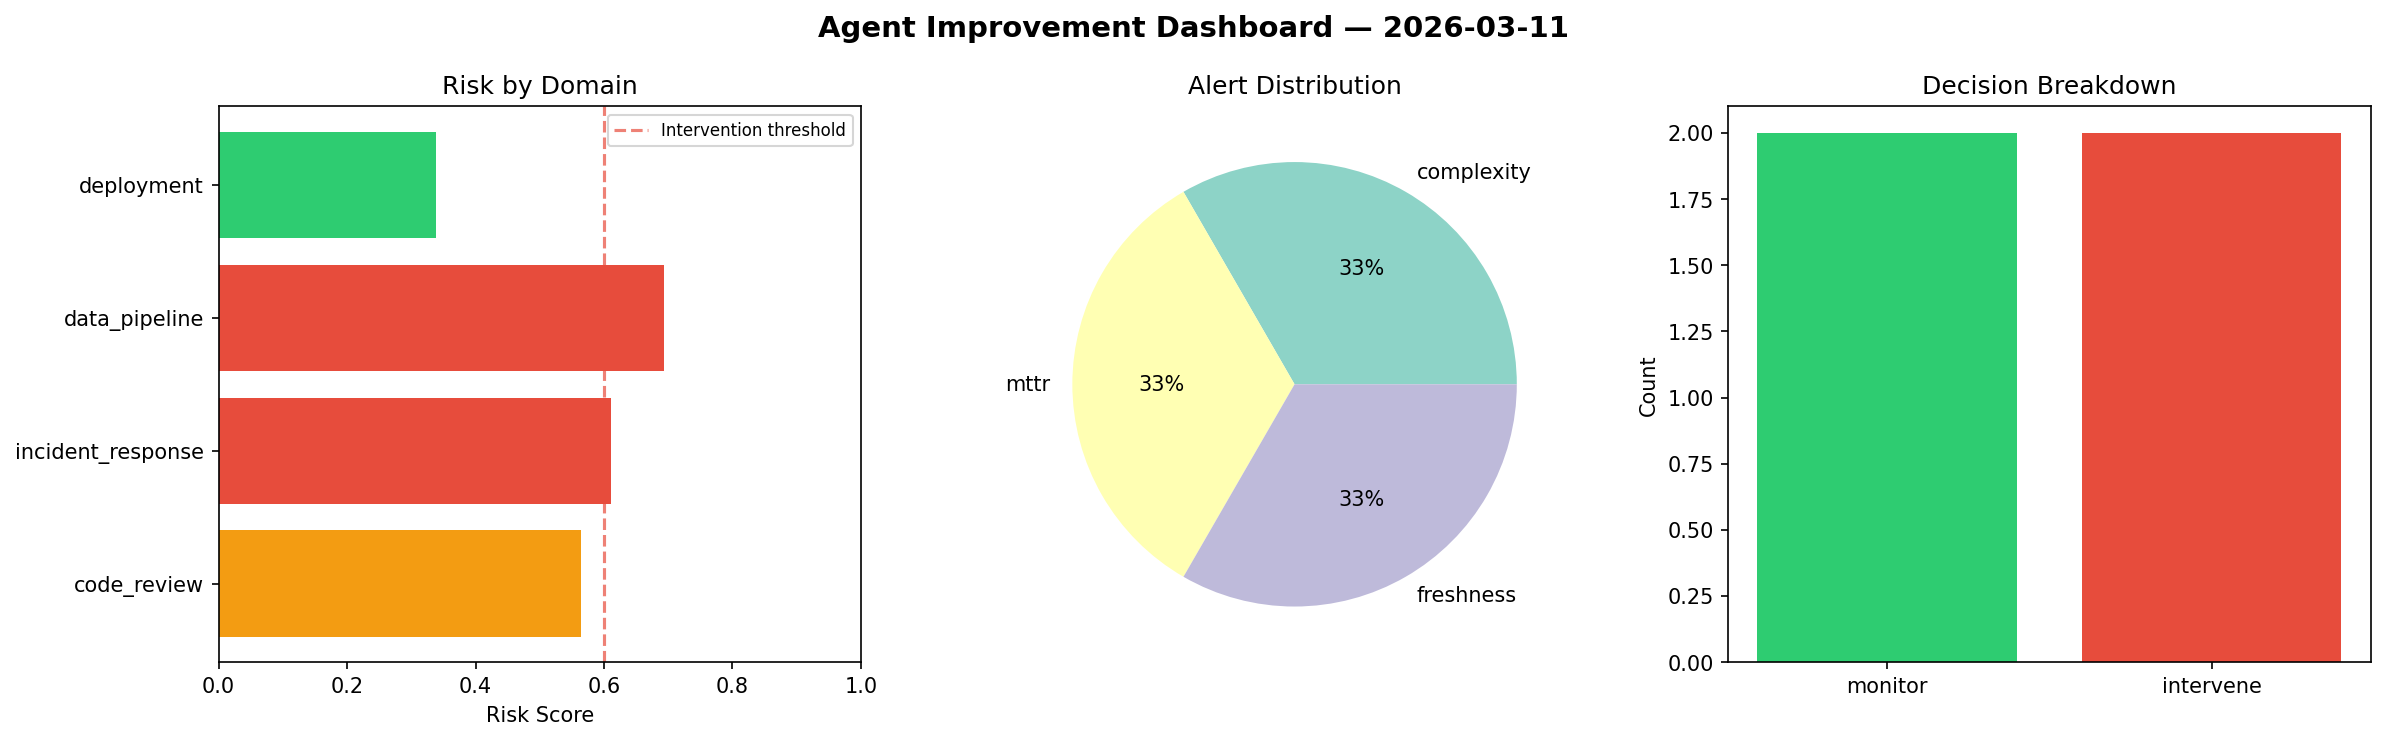
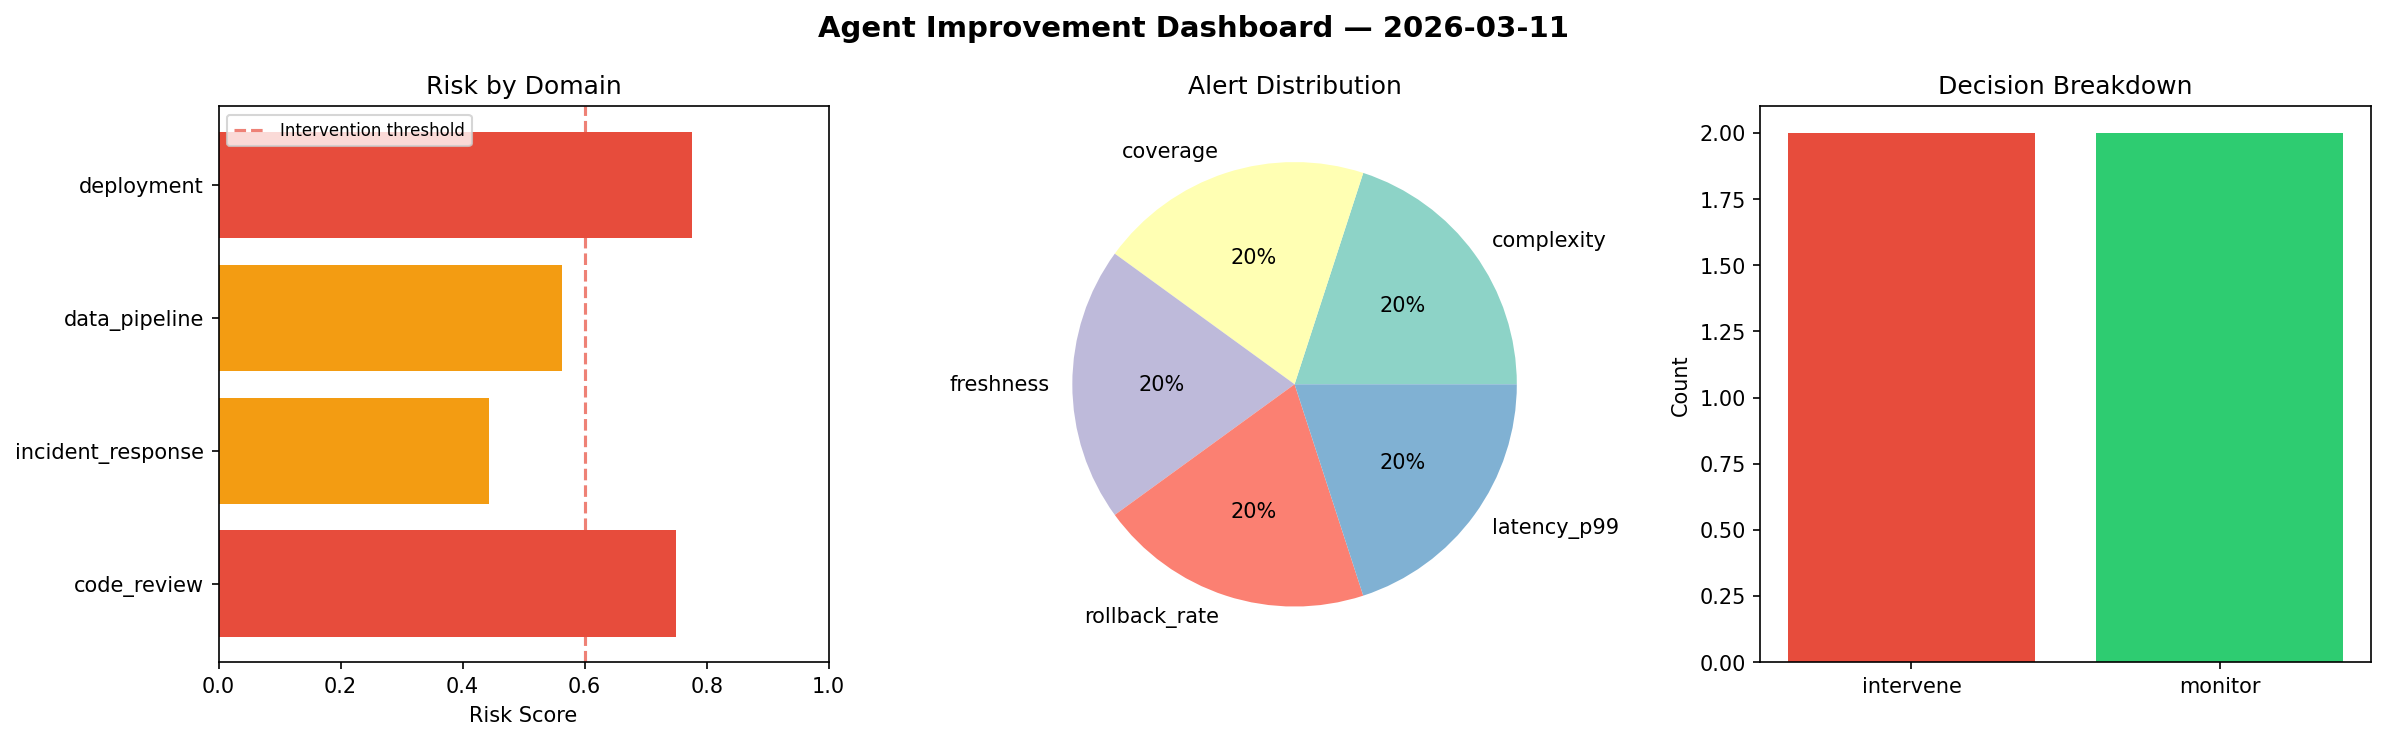
agent-improvement: daily cycle 2026-03-11T09:00

diff --git a/logs/2026-03-11.md b/logs/2026-03-11.md
@@ -1,6 +1,6 @@
 # Agent Improvement Report — 2026-03-11
 
-**Cycle ID:** `f614e241` | **Avg Risk:** 0.5516 | **Interventions:** 2/4
+**Cycle ID:** `007be525` | **Avg Risk:** 0.6328 | **Interventions:** 2/4
 
 ![Dashboard](2026-03-11_dashboard.png)
 
@@ -10,18 +10,18 @@
 
 | Domain | Risk Score | Decision | Alerts |
 |--------|-----------|----------|--------|
-| code_review | 0.5642 | monitor | complexity |
-| incident_response | 0.6104 | intervene | mttr |
-| data_pipeline | 0.6933 | intervene | freshness |
-| deployment | 0.3384 | monitor | none |
+| code_review | 0.7503 | intervene | complexity, coverage |
+| incident_response | 0.4431 | monitor | none |
+| data_pipeline | 0.5621 | monitor | freshness |
+| deployment | 0.7758 | intervene | rollback_rate, latency_p99 |
 
 ## Delta vs Yesterday
 
 | Domain | Today | Yesterday | Change |
 |--------|-------|-----------|--------|
-| code_review | 0.5642 | 0.4385 | 📈 28.7% |
-| incident_response | 0.6104 | 0.5311 | 📈 14.9% |
-| data_pipeline | 0.6933 | 0.5784 | 📈 19.9% |
-| deployment | 0.3384 | 0.8283 | 📉 -59.1% |
+| code_review | 0.7503 | 0.4385 | 📈 71.1% |
+| incident_response | 0.4431 | 0.5311 | 📉 -16.6% |
+| data_pipeline | 0.5621 | 0.5784 | 📉 -2.8% |
+| deployment | 0.7758 | 0.8283 | 📉 -6.3% |
 
-**Refinement:** `{'adjustment': 'maintain', 'trend': 'improving', 'window': 4}`
+**Refinement:** `{'adjustment': 'tighten_thresholds', 'trend': 'degrading', 'window': 4}`
